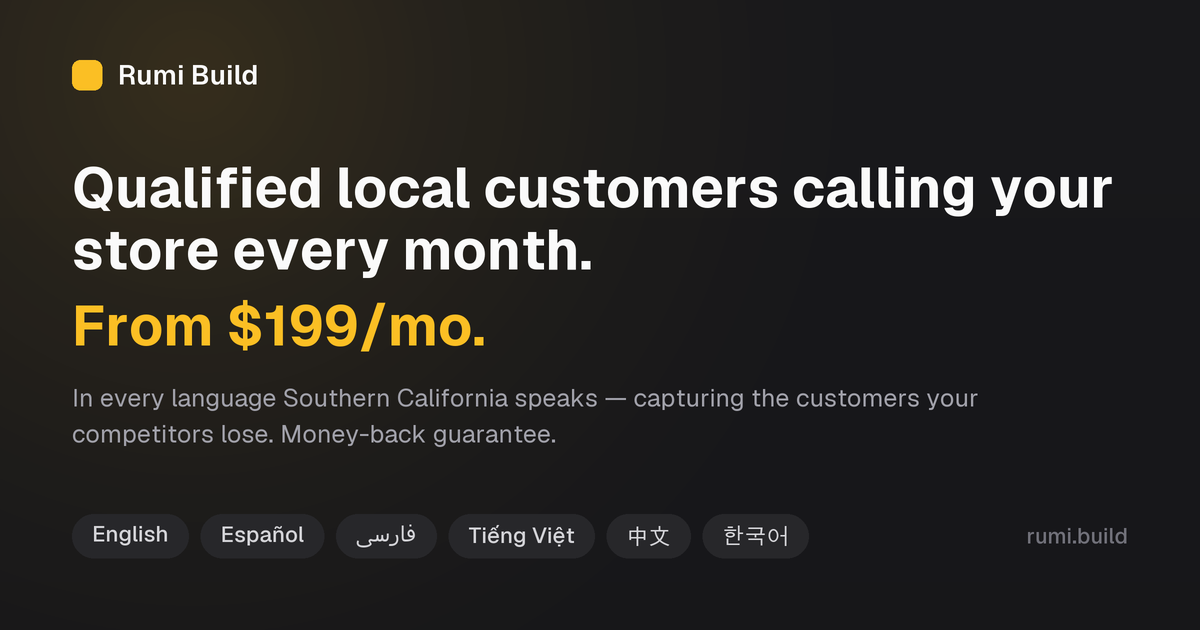
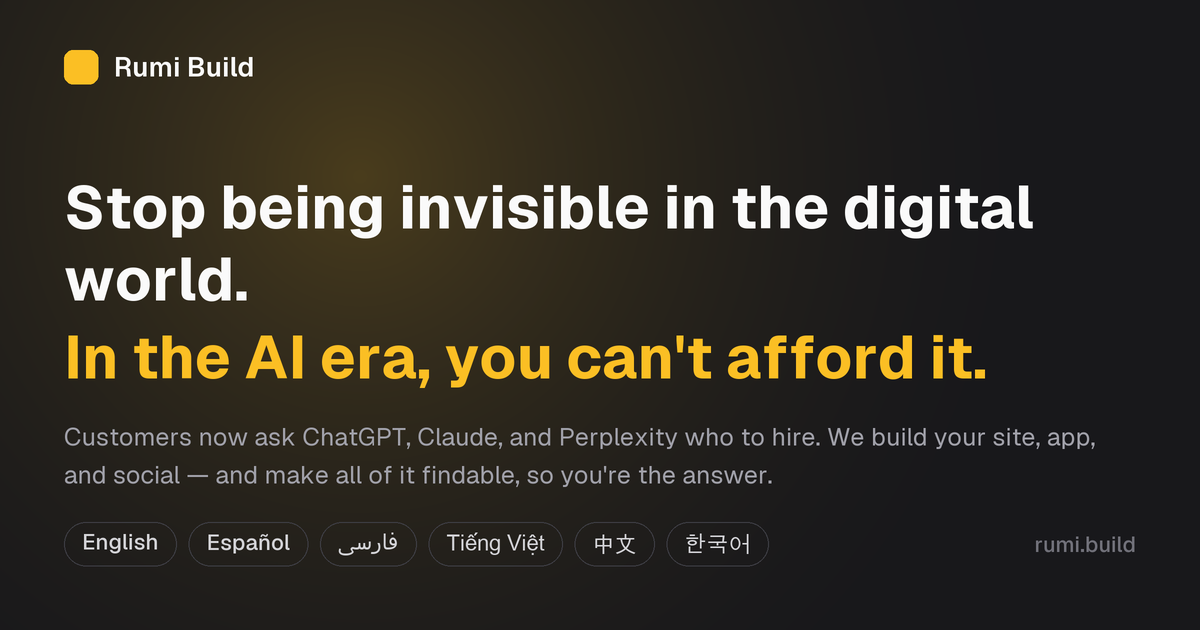
v0.4.4 fix: regenerate og-image.png for AI-era positioning (#14)
* fix: regenerate og-image.png for "invisible in the AI era" positioning

The OG card still carried the v0.3.0 "$199/mo" hero headline, which no
longer matches the live positioning after #10/#11. Regenerate it against
the current copy:

- headline: "Stop being invisible in the digital world."
- accent (amber): "In the AI era, you can't afford it."
- sub distilled from COPY.hero.sub / layout.tsx metadata (AI-engine framing)

Visual system preserved: zinc-900 bg + amber radial glow, amber-400
accents, Geist variable font, "Rumi Build" wordmark, multilingual strip
(English · Español · فارسی · Tiếng Việt · 中文 · 한국어), rumi.build.
Persian hand-shaped to contextual presentation forms; rendered 2x and
downscaled with LANCZOS to exactly 1200x630.

* chore: bump version and changelog (v0.4.3)

---------

diff --git a/CHANGELOG.md b/CHANGELOG.md
@@ -4,6 +4,12 @@ All notable changes to rumi.build are documented here.
 
 The format is based on [Keep a Changelog](https://keepachangelog.com/).
 
+## [0.4.4] - 2026-06-29
+
+### Fixed
+
+- Regenerated `public/og-image.png` (1200×630) to match the current **"Stop being invisible in the AI era"** positioning. The social/Twitter card still carried the retired v0.3.0 hero ("Qualified local customers calling your store every month. From $199/mo."), so link unfurls on iMessage, Slack, X, etc. advertised stale copy and pricing. The new card renders the live hero — "Stop being invisible in the digital world." with the amber accent "In the AI era, you can't afford it." — plus a subhead distilled from `COPY.hero.sub` / `layout.tsx` metadata (customers ask ChatGPT, Claude, and Perplexity who to hire; we make your whole presence findable). Visual system unchanged: zinc-900 background with amber radial glow, amber-400 accents, Geist font, "Rumi Build" wordmark, the multilingual strip (English · Español · فارسی · Tiếng Việt · 中文 · 한국어), and `rumi.build`. Persian hand-shaped to contextual presentation forms; rendered at 2× and downscaled with LANCZOS. No code changed — `layout.tsx` and the other pages already reference `/og-image.png`.
+
 ## [0.4.3] - 2026-06-29
 
 ### Added
